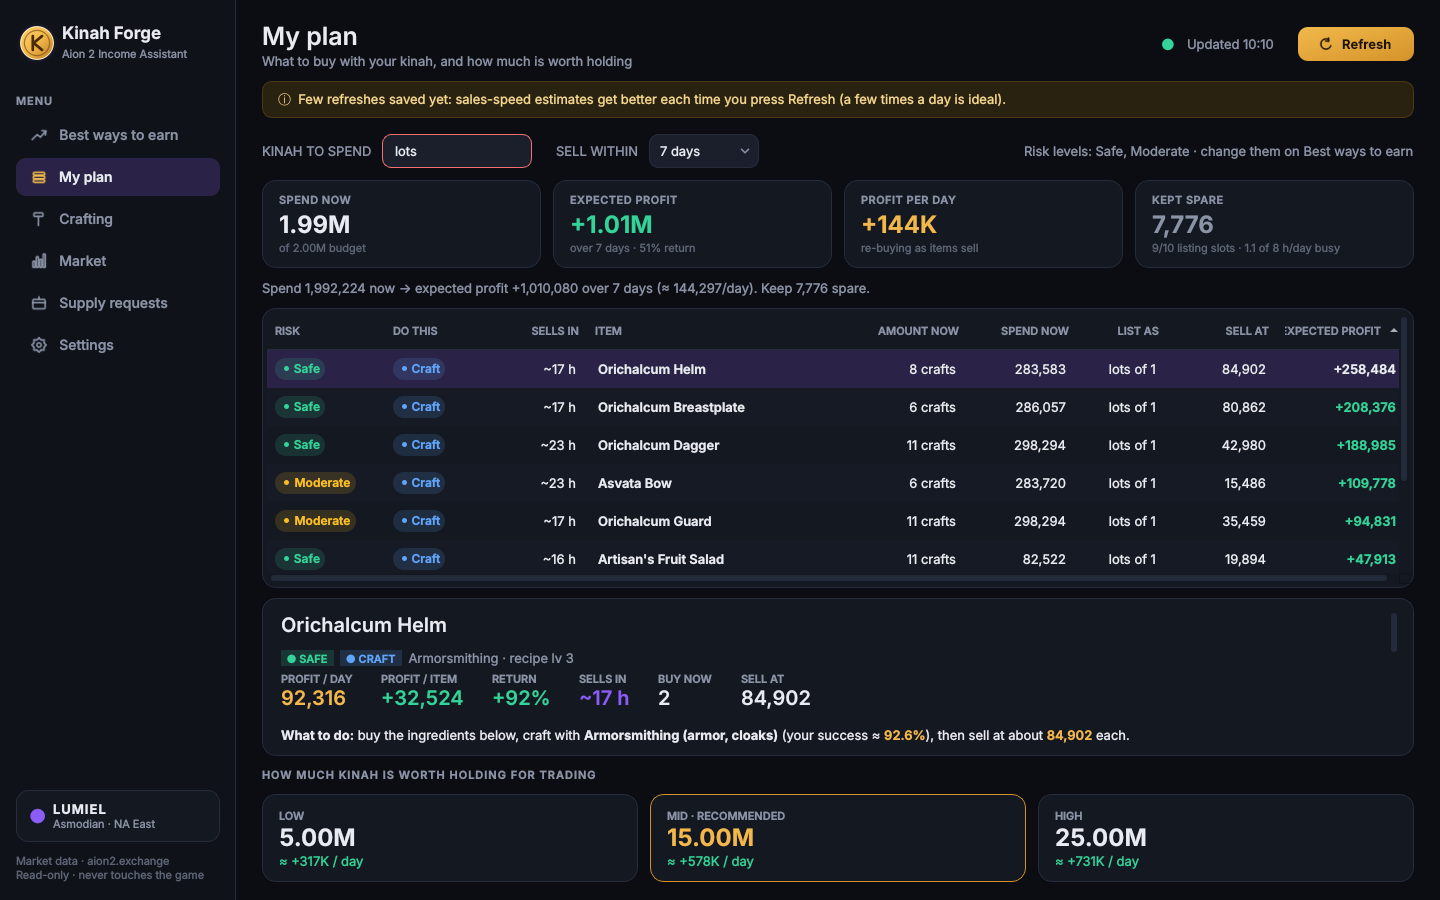
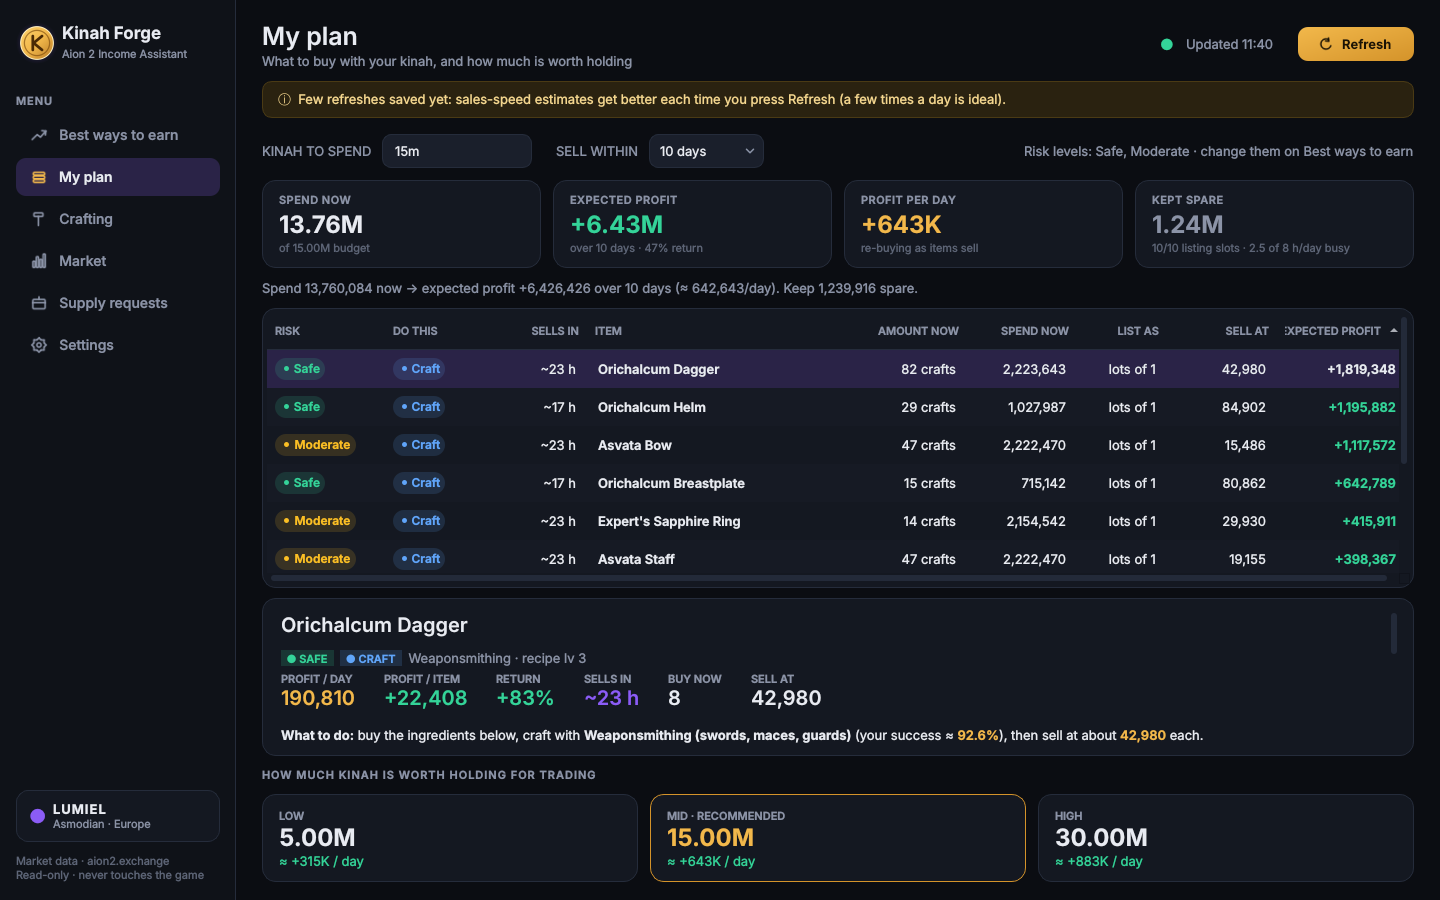
Income Assistant: re-tune on EU servers (999,360-run EU search)
- Realistic-return fit from EU trades (1.23*ln(1+p) - 0.09); it changed no
  ranking, only the numbers shown.
- Up to 10 days of stock (default plan 10 days): better than 7 in both EU and NA.
- Kept what held in both regions: +20% minimum, 15% per item, price-dip trades
  Risky, combo-luck trades Moderate, gear crafts kept.
- README: EU study, NA cross-check, EU liquidity advice; new EU chart and
  screenshots.

Claude-Session: https://claude.ai/code/session_0159oSubnBYt4Xz9pRDyQSQx

diff --git a/income-assistant/aion_income/opportunities.py b/income-assistant/aion_income/opportunities.py
@@ -18,10 +18,12 @@ from .pricing import MIN_HISTORY_POINTS, ItemStats
 
 SAFE, MODERATE, RISKY = "Safe", "Moderate", "Risky"
 
-# Predicted returns are optimistic: in simulations on real price history of five servers,
-# trades realised far less than predicted, but in the same order (a trade predicted at +100%
-# realised about +59%, +50% about +31%, under +10% about nothing). realistic = A*ln(1+predicted) + B.
-CALIBRATION = (0.95, -0.07)
+# Predicted returns are optimistic: in simulations on real price history, trades realised less
+# than predicted, but in the same order. realistic = A*ln(1+predicted) + B, fitted on 77,375
+# simulated trades on the EU servers Kaisinel and Zikel (a trade predicted at +100% realised about
+# +76%, +50% about +41%, under +10% about nothing). NA servers realised a bit less (A 1.06, B -0.12)
+# but the ranking of trades, which is what the plan uses, came out the same with either fit.
+CALIBRATION = (1.23, -0.09)
 
 
 def realistic_roi(pred_roi: float, calibration=CALIBRATION) -> float:
@@ -161,12 +163,12 @@ def _supply_notes(st: ItemStats, reasons: list, good: list):
         good.append(f"needed for a {st.supply_kind.lower()} supply request: extra buyers for {left / 24:.1f} more days")
 
 
-# Learned from 1,002,240 simulated 50-day runs (432 strategies x 5 servers x 2 crafting levels x
-# 2 replay modes), with the winner picked on four servers and checked on the fifth:
+# Learned from two million-run searches (999,360 runs on the EU servers Kaisinel and Zikel, and
+# 1,002,240 runs on five servers incl. NA); only rules that held in both regions are kept:
 #  - trades predicted under +20% are not worth a listing slot -> Risky
-#  - "loses money if the price falls to its recent low" made ~+1% for a predicted ~+25% -> Risky
-#  - "only profitable when the Splendent combo hits" swings more but really made ~+33% once the
-#    +20% bar is met -> Moderate (never Safe)
+#  - "loses money if the price falls to its recent low" made about nothing (EU -8%, NA -2%) -> Risky
+#  - "only profitable when the Splendent combo hits" swings more, but skipping those trades cost
+#    16M in EU and 8M in NA over 50 days -> Moderate (never Safe)
 #  - big price swings, falling prices and failed-craft risk alone don't make a trade worse
 AVOID = ("loses money if the price falls",)
 SWINGY = ("only profitable when the Splendent combo hits",)

diff --git a/income-assistant/aion_income/gui/main_window.py b/income-assistant/aion_income/gui/main_window.py
@@ -24,7 +24,7 @@ from . import theme
 from .theme import RISK_COLORS
 from .widgets import Column, KpiCard, PriceChart, kinah, make_table, parse_kinah, pct, selected_row, short
 
-HORIZONS = [("1 day", 1.0), ("3 days", 3.0), ("7 days", 7.0)]
+HORIZONS = [("1 day", 1.0), ("3 days", 3.0), ("7 days", 7.0), ("10 days", 10.0)]
 METHOD_COLORS = {"Craft": theme.BLUE, "Resell": theme.VIOLET}
 
 PAGES = [
@@ -313,8 +313,8 @@ class MainWindow(QMainWindow):
         self.weekly_label = QLabel("WEEKLY CYCLE  ·  " + supply_mod.weekly_tip())
         self.weekly_label.setWordWrap(True)
         self.weekly_label.setStyleSheet(f"color:{theme.VIOLET};padding:2px 2px")
-        self.weekly_label.setToolTip("From price history around the weekly reset (supply requests). One week of data, "
-                                     "so treat it as a hint.")
+        self.weekly_label.setToolTip("From price history around the weekly reset (supply requests) on EU and NA servers; only what held in both "
+                                     "regions is shown. One week of data, so treat it as a hint.")
         lay.addWidget(self.weekly_label)
 
         filt = QHBoxLayout()
@@ -477,7 +477,7 @@ class MainWindow(QMainWindow):
                 f"~{o.minutes_per_day:.0f} min/day of your time · <span class='gold'>{kinah(o.profit_per_listing)}</span> "
                 f"per listing</p>")
         out.append(f"<p class='muted'>Realistic numbers above. The raw prediction is {kinah(o.profit_unit, True)} per item "
-                   f"({pct(o.roi, True)}); in simulations on five servers' real prices, trades predicted like this "
+                   f"({pct(o.roi, True)}); in simulations on EU servers' real prices, trades predicted like this "
                    f"made about {pct(o.real_roi, True)}. New-game prices are hard to predict, so the plan spreads "
                    f"your kinah (max 15% per item).</p>")
         if o.good:

diff --git a/income-assistant/tests/test_planner.py b/income-assistant/tests/test_planner.py
@@ -138,17 +138,18 @@ def test_plan_caps_each_item_and_stocks_a_few_days():
 
 def test_realistic_roi_curve():
     from aion_income.opportunities import realistic_roi
-    assert realistic_roi(0.10) < 0.03 and abs(realistic_roi(1.0) - 0.59) < 0.02
+    assert realistic_roi(0.10) < 0.03 and abs(realistic_roi(1.0) - 0.76) < 0.02
     assert realistic_roi(0.5) < 0.5 and realistic_roi(2.0) < 2.0
 
 
 def test_million_run_rules():
     from aion_income.opportunities import MIN_PRED_ROI
     from aion_income.planner import MAX_SHARE, MAX_STOCK_DAYS
-    assert MIN_PRED_ROI == 0.20 and MAX_SHARE == 0.15 and MAX_STOCK_DAYS == 7
+    assert MIN_PRED_ROI == 0.20 and MAX_SHARE == 0.15 and MAX_STOCK_DAYS == 10
     st = ItemStats(key="k", name="X", ask=1000, listings=40, ref=1400, ref_basis="t", history_points=48,
                    sales_per_day=30, sales_hours=24, volatility=0.05, pessimistic=600, trend_short=0.0, reversion=1.0)
     o = resell_opportunity(st, 0.88)       # +23% predicted but loses money at the recent low
     assert o.risk == RISKY and any("loses money" in r for r in o.reasons)
     small = op("c", 1000, 400, per_day=10)
     assert make_plan([small], 1e9, horizon=7).lines[0].units == 70   # a week of sales at once
+    assert make_plan([small], 1e9, horizon=10).lines[0].units == 100  # the default: 10 days of sales

diff --git a/income-assistant/aion_income/planner.py b/income-assistant/aion_income/planner.py
@@ -11,11 +11,13 @@ from dataclasses import dataclass
 
 from .opportunities import CALIBRATION, LISTING_SLOTS, Opportunity, realistic_roi
 
-# Defaults learned from 1,002,240 simulated 50-day runs on five servers (see tools/simulate.py):
-MAX_SHARE = 0.15     # at most 15% of the budget in one item: nearly the best growth (25% was 1.5%
-                     # higher) with clearly better bad-luck results and smaller dips
-MAX_STOCK_DAYS = 7   # buy up to a week of sales when a good trade is there: good trades don't show up
-                     # every day but you can sell every day (2 days -> 58M, 7 days -> 73M on average)
+# Defaults learned from simulated 50-day runs on EU and NA servers (see tools/simulate.py); both
+# regions agreed on these:
+MAX_SHARE = 0.15     # at most 15% of the budget in one item: 20-25% grew a little faster on average
+                     # but had worse bad-luck results on Kaisinel (EU, real sales) and on NA
+MAX_STOCK_DAYS = 10  # buy up to 10 days of sales when a good trade is there: good trades don't show up
+                     # every day but you can sell every day (EU: 2 days -> 52M, 7 -> 78M, 10 -> 81M;
+                     # NA: 7 -> 102M, 10 -> 107M). Not longer: the price history is only ~10 days
 
 OVERHEAD_MINUTES = 20  # refreshing, walking to the market, buying ingredients
 

diff --git a/income-assistant/tools/simulate.py b/income-assistant/tools/simulate.py
@@ -97,7 +97,7 @@ class Strategy:
     allow_risky_if_only: tuple = ()  # Risky allowed when every warning matches one of these
     calibration: tuple | None = CALIBRATION  # rank by realistic profit (A, B); None = raw prediction
     max_share: float = MAX_SHARE     # most of the budget one item may take
-    batch_days: float = 7.0          # buy this many days of sales at once (the app's default 7-day plan)
+    batch_days: float = 10.0         # buy this many days of sales at once (the app's default 10-day plan)
     sequential: bool = False         # replay real days in order from a random start (keeps real trends)
     weekly_timing: bool = False      # stock up Mon-Wed before the weekly reset, buy little Thu-Sun
 

diff --git a/income-assistant/aion_income/engine.py b/income-assistant/aion_income/engine.py
@@ -41,7 +41,7 @@ class Settings:
     overrides: dict = field(default_factory=dict)  # recipe id -> your in-game success %
     supply_requests: list = field(default_factory=list)  # supply.SupplyRequest you typed in
     budget: float = 5_000_000
-    horizon: float = 7.0   # learned: a 7-day plan (up to 7 days of stock) earned most in simulations
+    horizon: float = 10.0  # learned: a 10-day plan (up to 10 days of stock) earned most in EU and NA simulations
     play_hours: float = 8.0
     risks: list = field(default_factory=lambda: ["Safe", "Moderate"])
     server_name: str = "Lumiel"

diff --git a/income-assistant/tests/test_gui.py b/income-assistant/tests/test_gui.py
@@ -131,6 +131,8 @@ def test_window_end_to_end(app, engine, settings, fake, tmp_path):
             lv.setValue(60)
         for r, cb in win.risk_boxes.items():
             cb.setChecked(r != "Risky")
+        win.budget_edit.setText("15m")
+        win.budget_edit.editingFinished.emit()
         win.recalculate()
         win.resize(1440, 900)
         for i, name in enumerate(["best", "plan", "craft", "market", "supply", "settings"]):

diff --git a/income-assistant/README.md b/income-assistant/README.md
@@ -1,6 +1,6 @@
-# Aion 2 Income Assistant (Lumiel)
+# Aion 2 Income Assistant (Lumiel, EU)
 
-A Windows 11 desktop app that reads the **Lumiel** market from
+A Windows 11 desktop app that reads the **Lumiel (Europe)** market from
 [aion2.exchange](https://aion2.exchange) and tells you what makes the most kinah:
 which recipes to craft, which underpriced listings to buy and resell, how much
 to buy, how fast it sells, and how risky it is.
@@ -40,6 +40,8 @@ memory or its network traffic.
 
 1. Open **Settings** and enter your crafting levels (0 = you don't have that
    profession). Check the market fees (default: 10% sales tax + 2% listing fee).
+   The server is **Lumiel, region EU** by default. Several regions have a Lumiel,
+   so if you ever play on another one, change *Server* and *Region* there.
 2. Press **Refresh**. Every press downloads the latest Lumiel prices. The
    first one takes about 40 seconds because it loads price history for the
    important items. Later ones take a few seconds.
@@ -48,7 +50,7 @@ memory or its network traffic.
    row for step-by-step instructions: ingredients, where to get each one
    cheapest, what to list at, how many to buy.
 4. **My plan**: type how much kinah you can spend (`5m`, `500k`, …) and how
-   soon you want it sold. You get what to buy or craft, how much to spend
+   soon you want it sold (default 10 days). You get what to buy or craft, how much to spend
    and the expected profit. Below that are three suggested amounts worth
    holding for trading (Low ≤ 5M, Mid ≤ 15M, High ≤ 30M), based on how much
    the market can actually absorb.
@@ -85,68 +87,73 @@ because those buyers disappear when the request ends.
   price is expected to keep falling. Without enough history it assumes only 30%
   of a dip recovers.
 
-## What 1,000,000 simulations taught it
+## What 2,000,000 simulations taught it (EU first, NA as a cross-check)
 
 `tools/simulate.py` follows the app's plan every day: real prices replayed (in random
 day order and in real order), craft success and Splendent combos rolled, buyers
 arriving at random, 10 listing slots, 5 minutes per listing, leftovers carried over.
-It was run on the real price history of five servers (Siel, Nezekan, Kaisinel,
-Israphel, Zikel; 6–16 Oct 2026). Kaisinel publishes real sales; the others borrow
-Kaisinel's sales volumes.
 
-![1,000,000 runs](docs/million.png)
+There is no public price history for EU Lumiel yet, so the EU study uses the two EU
+servers that have it: **Kaisinel** (EU, publishes real sales) and **Zikel** (EU,
+Asmodian like Lumiel; it borrows Kaisinel's sales volumes). The earlier NA study
+(Siel, Nezekan, Israphel, 1,002,240 runs) is the cross-check. **Only rules that held
+in both regions are built in.** Where the regions differ, the app uses the EU value.
 
-**The search:** 432 strategies × 5 servers × crafting level 60/100 × random/real-order
-replay × 116 runs each = **1,002,240 simulated 50-day runs, starting with 30M, 8 h/day**.
-Strategies were ranked by long-run growth (average log of the final kinah, which
-punishes big losses). The winner was picked on four servers and checked on the fifth.
-The same strategy won every time, placing 1st–24th of 432 on the server it hadn't seen.
+![999,360 EU runs](docs/million_eu.png)
 
-What each setting did on average:
+**The EU search:** 360 strategies × Kaisinel/Zikel × crafting level 60/100 ×
+random/real-order replay × 347 runs = **999,360 simulated 50-day runs, starting with
+30M, 8 h/day** (6–16 Oct 2026 prices). Strategies were ranked by long-run growth
+(average log of the final kinah, which punishes big losses).
 
-| Setting | Effect |
-|---|---|
-| Days of stock bought at once | 2 days → 58M · 3 → 64M · 5 → 69M · **7 → 73M** (the biggest lever) |
-| Minimum predicted return | 10% → 66M · **20% → 67M** · 35% → 65M |
-| Most budget in one item | 8% safest · **15% nearly the best growth with better bad-luck results** · 25% highest growth but bigger dips |
-| Swingy-but-profitable trades | allowing them: **+8M** |
-| Skipping falling prices | **−9M** (falling prices aren't a reason to skip) |
-| Crafting only vs crafting + resells | about the same; crafting does almost all the work |
-
-Built into the app as the default:
-
-* **Only trades predicted at +20% or more**; thinner ones are Risky.
-* **"Loses money if the price falls to its recent low" is Risky.** In 103,608 trades
-  it made about +1% for a predicted ~+25%; dropping it raised the median 4.6M.
-* **Combo-luck trades are Moderate.** They swing more but really made about +33%.
-* **At most 15% of the budget per item, and up to a week of stock** (the 7-day plan).
-
-Results with 30M:
-
-| Plan | Median after 50 days | 10–90% of runs | Runs below 30M |
+| Setting | EU | NA | Built in |
 |---|---|---|---|
-| Previous default | 74M (+0.88M/day) | 62–86M | 0% |
-| **Shipped default** | **102M (+1.44M/day)** | **70–136M** | **0%** |
+| Days of stock bought at once | 2 d → 52M · 3 → 57M · 5 → 62M · 7 → 64M (search average); 10 days beat 7 in a follow-up (78 → 81M typical) | 7 → 102M, 10 → 107M | **up to 10 days** (the price history only covers ~10 days, so no longer) |
+| Minimum predicted return | 10% ≈ 20% > 35%; every top strategy used 20% | 20% best | **+20%**, thinner trades are Risky |
+| Most budget in one item | 25% grew ~3M more on average, but on Kaisinel in real order it lost money in 2% of runs (15%: 0.3%) | 15% clearly better bad-luck results | **15%** |
+| "Loses money if the price falls to its recent low" | made −8% | made −2% | **Risky** |
+| Skipping combo-luck trades | **−16M** | −8M | kept, **Moderate** (never Safe) |
+| Skipping swingy trades | −5M | −8M | kept |
+| Skipping gear crafts (armour, weapons, accessories) | 80M → 52M | 106M → 58M | kept: gear plus materials beats either alone |
+| Realistic-return fit | 1.23·ln(1+p) − 0.09 | 1.06·ln(1+p) − 0.12 | **EU fit**; it changed no ranking (58.4M either way), only the numbers shown |
 
-The app's realistic return matches what trades really made: crafts were predicted
-at +39% realistic and made +38.5%. Crafted armour and crafting materials (leather,
-wood, paper) bring in most of the profit.
+What trades really made in EU, by predicted return: under +20% → about −1.5%;
++20–35% → +32%; +35–50% → +42%; +50–100% → +47%; +100–200% → +120%. The app's
+"realistic" columns use this EU fit.
+
+Results with 30M after 50 days (shipped default, same dice for every plan):
+
+| | Median | 10–90% of runs | Runs below 30M |
+|---|---|---|---|
+| EU, previous NA-tuned default | 84.5M | 68–101M | 0.1% |
+| **EU, shipped default** | **86.6M (+1.1M/day)** | **71–105M** | **0%** |
+| · Kaisinel (real sales) | 55.6M (+0.5M/day) | 44–74M | 0% |
+| · Zikel (borrowed volumes) | 113.9M | 99–135M | 0% |
+| NA, same shipped default | 103.8M | 78–156M | 0% |
+
+**Expect Kaisinel-like numbers on Lumiel:** about **+25M on 30M over 50 days**
+(+0.5M/day). Kaisinel is the only server whose sales are real. Zikel and the NA
+servers borrow sales volumes, which may overstate how much sells. The game is new
+and prices are hard to predict, so refresh often: the app keeps re-learning from
+your own history.
 
 **Expect paper dips.** About half your net worth sits in stock, valued at its low-end
-price until it sells. 60% of runs had a dip of 25%+ at some point, mostly around
-day 30–35, and still ended well up. Don't panic-sell stock in a dip.
+price until it sells. Typical runs dip about 22% at some point and still end well up.
+Don't panic-sell stock in a dip.
 
-**Be careful with these numbers.** On Kaisinel, the one server with real sales data,
-the shipped default made about **+25M on 30M (55M)**. On the borrowed-volume servers
-it made +50–85M. Lumiel will probably land in between. The game is new and prices
-are hard to predict, so refresh often: the app keeps re-learning from your own history.
+**How much to keep liquid (EU).** Extra kinah stops paying off quickly. On
+Kaisinel, profit was +22M with 10M, +25M with 15M, and no better with 20–30M. A
+busy day's buying needs about 3.5–4.5M, and about 45% of your trading money is
+cash at any moment. So a **15M trading pot, with at least 5M of it always in cash**,
+is the sweet spot. Up to 20M still helps on busier servers; past 30M it's
+pointless. The *How much kinah is worth holding* cards on **My plan** show the
+same curve for your live market.
 
-**Weekly supply-request cycle.** On all five servers, crafted items had their biggest
-share of market activity the day after the weekly reset (Wednesday). Crafted items
-were cheapest just before it, and materials rose ~20% right after it. The app shows
-this as a weekly tip on the first page. Timing purchases around it gave smoother
-results in the simulation, but not more profit. With one week of data it's a hint,
-not a rule.
+**Weekly supply-request cycle.** In both EU and NA, crafted items were cheapest just
+before the weekly reset (Wednesday) and busiest the day after it (EU: about 1.2–1.3×
+their usual share of activity). The app shows this as a weekly tip on the first page.
+NA also showed materials jumping after the reset, but EU didn't, so the app doesn't
+claim it. With one week of data it's a hint, not a rule.
 
 Once you've refreshed for a week or two, run it on your own Lumiel history:
 `python tools/simulate.py "%APPDATA%\\Aion2IncomeAssistant\\history.db" --start 30m`
@@ -171,8 +178,9 @@ Once you've refreshed for a week or two, run it on your own Lumiel history:
 ## Data sources
 
 * Market data: the public aion2.exchange API (`/api/servers`, `/api/items`,
-  `/api/items/{id}/prices`, `/api/items/{id}/depth`). Lumiel is server 12104
-  (NA East, Asmodian), looked up by name on each refresh.
+  `/api/items/{id}/prices`, `/api/items/{id}/depth`). EU Lumiel is server 12304
+  (Europe, Asmodian), looked up by name and region on each refresh (other Lumiels:
+  NA East 12104, NA West 12204, South America 12404, Asia 12504).
 * Recipes: the gamers4.life crafting database (a copy ships with the app, and
   it re-downloads weekly to pick up patches).
 * NPC shop prices: community guides. The ones marked *estimated* in
